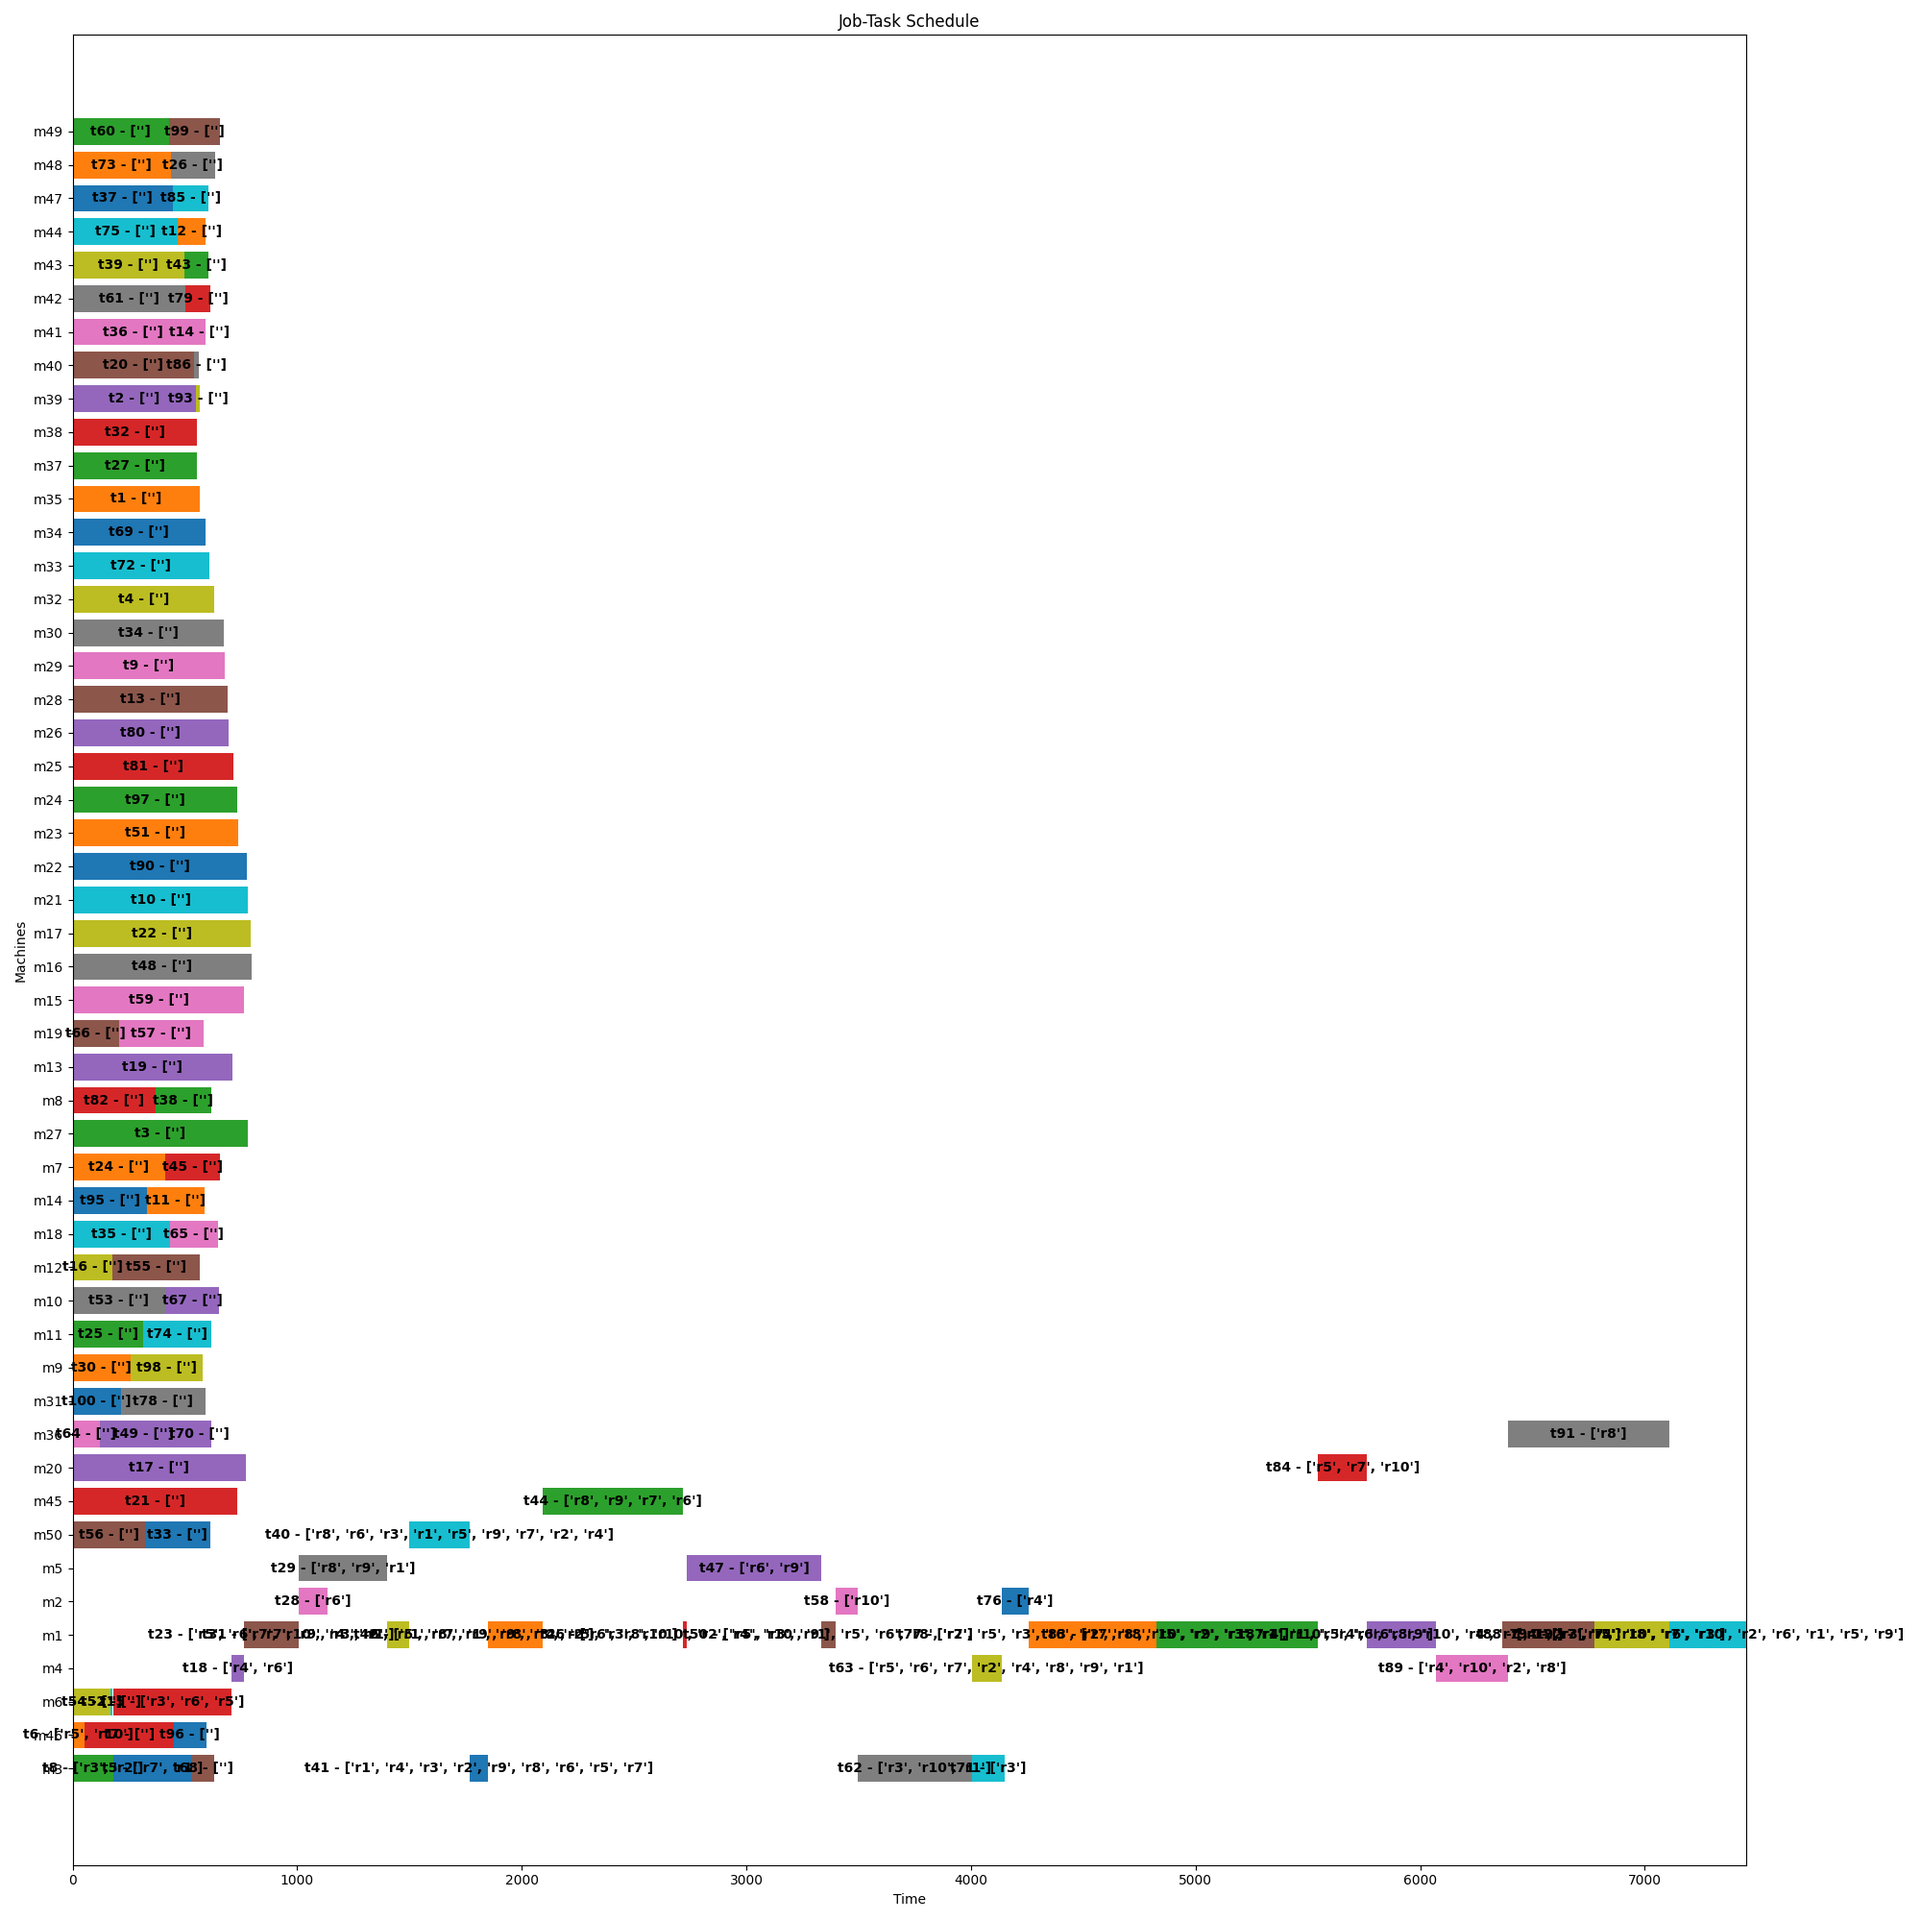
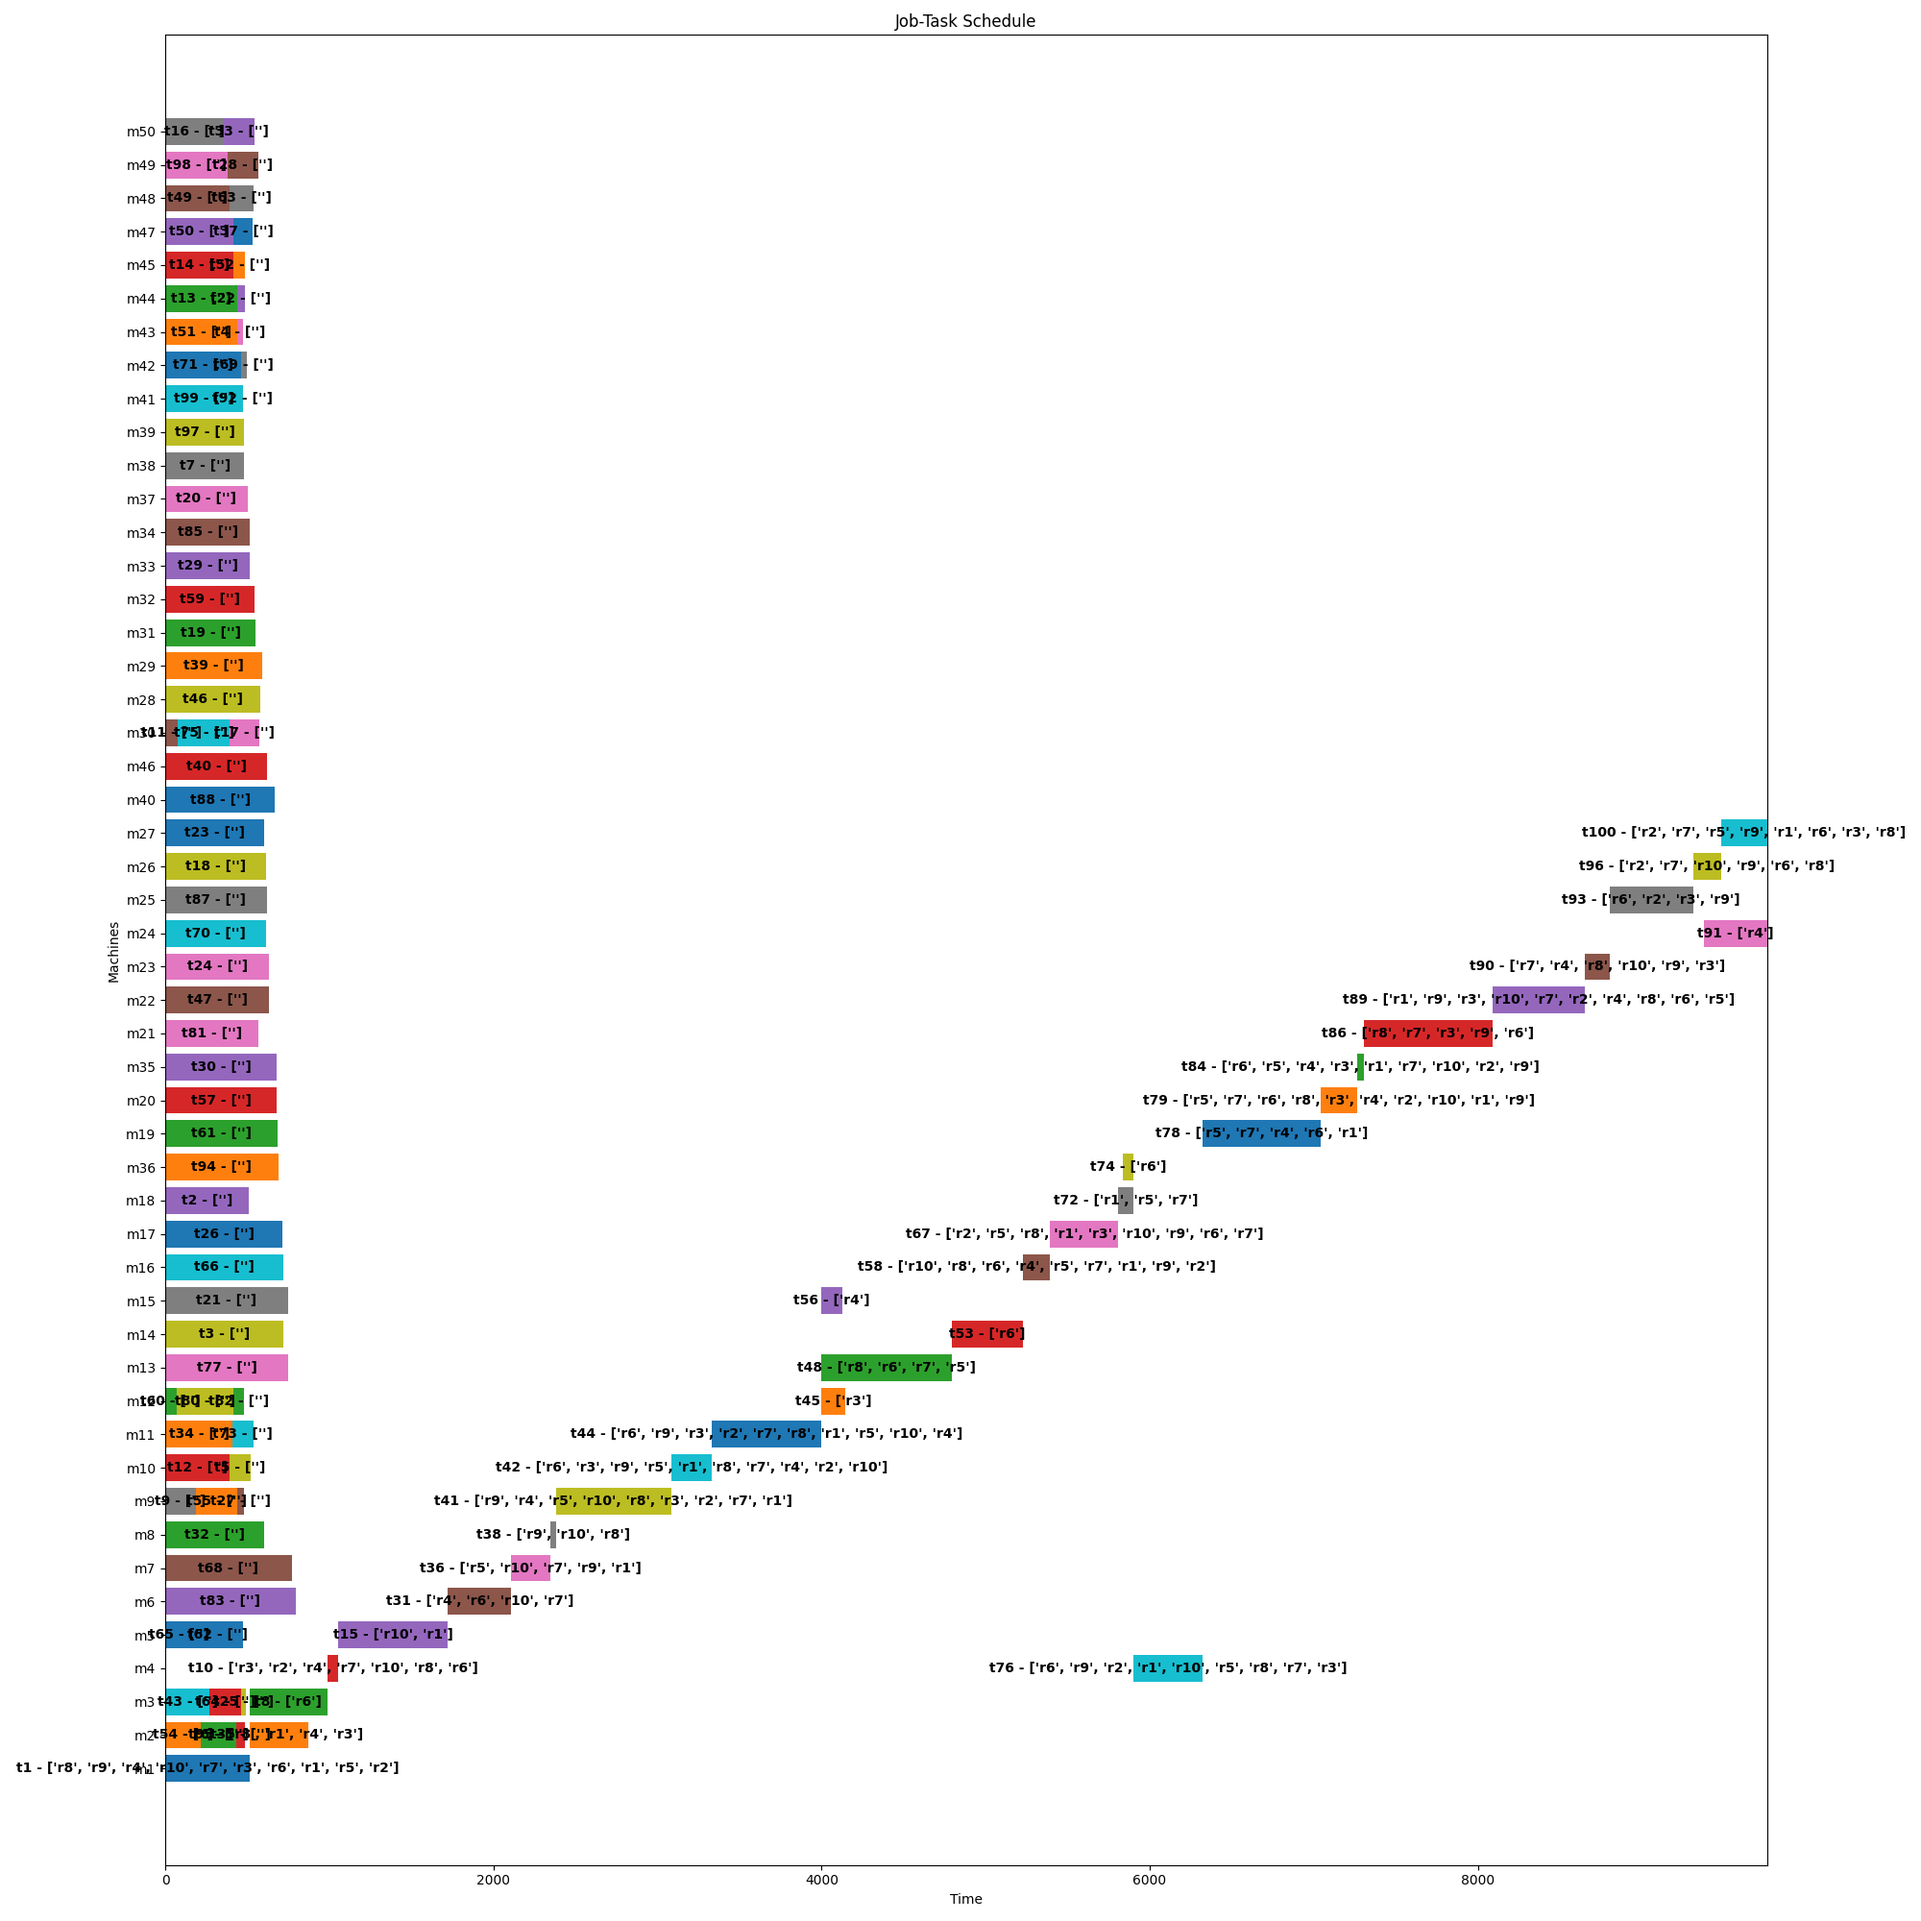
before implementing the assigment: somme code must be commented to compile

diff --git a/mainGreedy.py b/mainGreedy.py
@@ -174,6 +174,76 @@ class Problem:
         self.have_resources_modelA = [self.have_resources[i-1] for i in self.tests_modelA]
         
         
+        ##! machine pre-assigned
+        ##! not very smart yet
+        
+        print()
+        print("effective resources: ", self.resources_effective_modelA)
+        print()
+        
+        ## assign first tests with machines restrictions
+        counter_machine_assignment = [0 for _ in range(self.num_machines)]
+        
+        self.machines_pre_assigned = [0 for _ in range(self.num_tests_modelA)]
+        
+        for i in range(self.num_tests_modelA):
+            if len(self.machines_allowed_modelA[i]) < self.num_machines:
+                (self.machines_pre_assigned[i]) = list(self.machines_allowed_modelA[i])[0]
+        
+        
+        machine_value = 1
+        
+        for i in range(self.num_tests_modelA):
+            if len(self.machines_allowed_modelA[i]) == self.num_machines:
+                (self.machines_pre_assigned[i]) = machine_value
+                
+                machine_value += 1
+                if machine_value > self.num_machines:
+                    machine_value = 1
+        
+        
+        ##! assign values for the start time in the first resource
+        
+        lenghts_resources = [len(self.resources_effective_modelA[i]) for i in range(self.num_resources_effective)]
+        index_max_resource = lenghts_resources.index(max(lenghts_resources))
+        
+        tests_resource = list(self.resources_effective_modelA[index_max_resource])
+        
+        
+        self.start_pre_assigned = [0 for _ in range(self.num_tests_modelA)]
+        
+        self.start_pre_assigned[tests_resource[0]-1] = 0
+        self.start_pre_assigned[tests_resource[1]-1] = self.durations_modelA[tests_resource[0]-1]
+        
+        old_task = tests_resource[1]
+        for i, task in enumerate(tests_resource):
+            if i > 1:
+                self.start_pre_assigned[task-1] = self.durations_modelA[task-2] + self.start_pre_assigned[old_task-1] 
+                
+                old_task = task
+        
+        for i in range(self.num_tests_modelA):
+            if self.start_pre_assigned[i] == 0:
+                self.start_pre_assigned[i] = -2
+                
+        self.start_pre_assigned[tests_resource[0]-1] = 0
+        
+        print()
+        print("durations: ", self.durations_modelA)
+        print("start pre-assigned: ", self.start_pre_assigned)
+        print()
+        
+        
+        # print()
+        # print("machines pre-assigned: ", self.machines_pre_assigned)
+        
+        # print()
+        
+        
+        ## order starts
+        
+        
+        
         ##! offset in the global resources in the machines that have only one machine allowed - have that into account when checking the global resources
         self.tests_unique_machines_no_resources = [i+1 for i in range(self.num_tests) if (self.have_resources[i] == False and len(self.machines_allowed[i]) == 1)]
         
@@ -239,7 +309,13 @@ class Problem:
         
         instance["durations"] = self.durations_modelA
         
+        # instance["machines_allowed"] = self.machines_allowed_modelA
         instance["machines_allowed"] = self.machines_allowed_modelA
+        instance["machines_pre_assigned"] = self.machines_pre_assigned
+        
+        
+        instance["start_pre_assigned"] = self.start_pre_assigned
+        
         # instance["machines_allowed"] = self.machines_effective_allowed_modelA
         
         instance["resources_allowed"] = self.resources_effective_modelA
@@ -471,6 +547,9 @@ class Problem:
             
             if machine_id not in self.machines_allowed[task-1]:
                 print("Error: machine not allowed")
+                
+                print(task, machine_id)
+                print(self.machines_allowed[task-1])
                 return False
             
             if start_time + duration > self.total_makespan:
@@ -582,13 +661,17 @@ if __name__ == "__main__":
     problem.input_data_modelA()
     problem.load_modelA()
     
+    time_partial = time.time()
+    
     problem.gready_algorithm_modelB()
     
     print("Is solution:", problem.checker_solution())
     
     problem.create_output_file()
-    time_end = time.time()
-    
     problem.crete_plot_file()
     
-    print(f"Time: {time_end - time_start} secs")
+    time_end = time.time()
+    
+    print(f"Time A: {time_partial - time_start} secs")
+    print(f"Time B: {time_end - time_partial} secs")
+    print(f"Total time: {time_end - time_start} secs")
